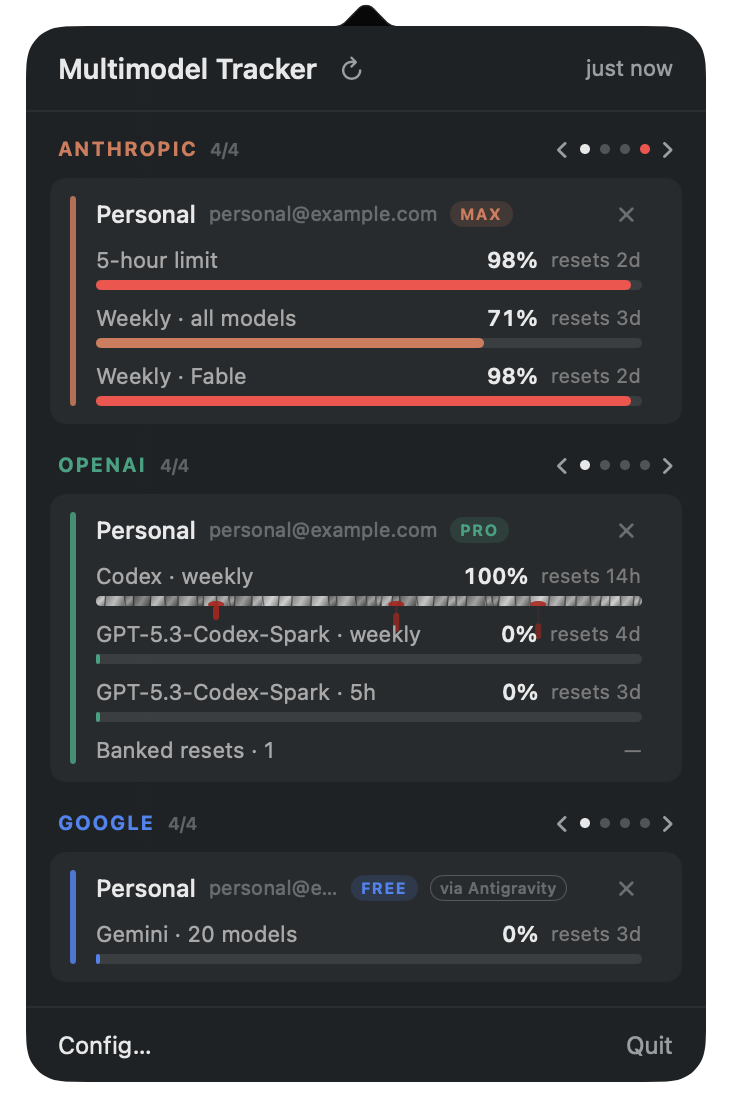
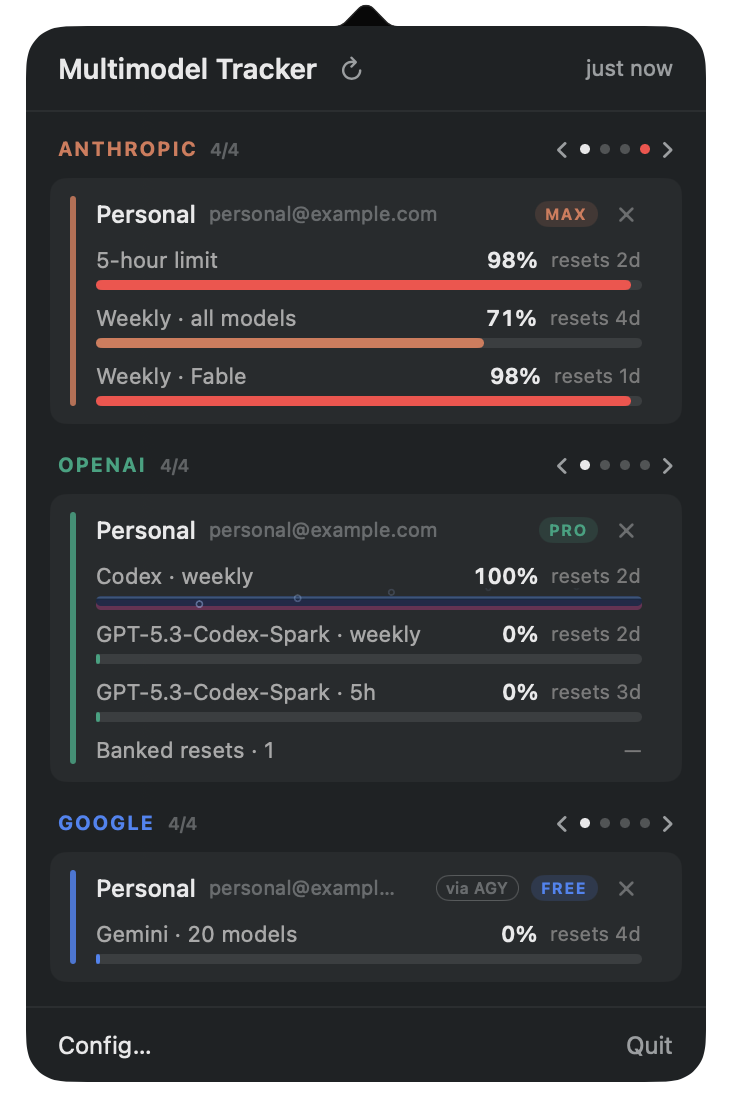
A half-signed-in Google row can no longer borrow another account's data
Adding a Google account showed the new row wearing the machine login's
numbers and tier until its own token landed — a browser row that had not
finished signing in fell back to the Antigravity credentials, so one
account's usage appeared under another's name. Rows that read the machine
login are now marked explicitly (mmt.googleMachineRows, a preference
rather than a field on the account, so the persisted shape never
changes), only a marked row may use those credentials, and any other row
without its own token reports "Not signed in" — which is the truth.
Existing rows are migrated once on launch: a Google row with no token of
its own could only ever have been reading the machine login.

Two presentation fixes that came with it:

- The chips sat immediately after the name and email, so they started at
  a different x on every row. They now sit after the spacer and line up
  down the column, tier last against the same right edge.
- The route chip says "via AGY" and, since browser sign-in is now the
  ordinary way in for Google, only the imported row says anything at all.
  That row is the unusual one: its credentials come from the Antigravity
  login already on this Mac (the keychain item the IDE and the agy CLI
  share), recovered without signing in here.

Confirms the tier reading against a second account: a paid account's
paidTier is "Google AI Pro", a free one's is "Antigravity Starter Quota"
with id free-tier, so the two are distinguishable and the chips now read
[…]

diff --git a/Sources/MultimodelTracker/Models/Store.swift b/Sources/MultimodelTracker/Models/Store.swift
@@ -38,6 +38,7 @@ final class Store: ObservableObject {
         // gauge and the popover offers each vendor's first action. The old
         // seed ("personal@…" at 66%) predated the adapters and greeted every
         // new user with plausible numbers for accounts that didn't exist.
+        migrateGoogleMachineRows()
         maxedStyle = Self.style(forViewing: UserDefaults.standard.integer(forKey: maxedViewsKey))
         burnCycleStyle = BurnStyle(rawValue:
             ((max(UserDefaults.standard.integer(forKey: "mmt.burnViews"), 1) - 1) / 3)
@@ -195,9 +196,9 @@ final class Store: ObservableObject {
             a(.openai, "Agency", "agency@example.com", "Pro", codex(63, 0, 0, 2)),
             a(.openai, "Prototyping", "proto@example.com", "Pro", codex(88, 35, 52, 0)),
             a(.google, "Personal", "personal@example.com", "Free", [("g", "Gemini · 20 models", 0)], .antigravity),
-            a(.google, "Work", "work@example.com", "Pro", [("g", "Gemini · 20 models", 12)], .antigravity),
-            a(.google, "Studio", "studio@example.com", "Ultra", [("g", "Gemini · 20 models", 47)], .antigravity),
-            a(.google, "Team", "team@example.com", "Pro", [("g", "Gemini · 20 models", 79)], .geminiCLI),
+            a(.google, "Work", "work@example.com", "Pro", [("g", "Gemini · 20 models", 12)]),
+            a(.google, "Studio", "studio@example.com", "Ultra", [("g", "Gemini · 20 models", 47)]),
+            a(.google, "Team", "team@example.com", "Pro", [("g", "Gemini · 20 models", 79)]),
         ]
     }
 
@@ -327,6 +328,7 @@ final class Store: ObservableObject {
     }
 
     func remove(_ id: UUID) {
+        unmarkMachineGoogleRow(id)
         Keychain.deleteAll(for: id)
         // Leave nothing that --recover would faithfully resurrect: the burn
         // history and the per-account cookie jar both outlive the row.
@@ -436,6 +438,42 @@ final class Store: ObservableObject {
     /// on this Mac. The adapter reads those sources directly at fetch time,
     /// so the account is a named slot rather than a credential holder — which
     /// also means one is enough.
+    /// Rows that read the ONE Antigravity/gemini-cli login on this Mac.
+    /// Kept as its own preference rather than on the account, so the
+    /// persisted account shape never changes (that is what once wiped the
+    /// list). Without this marker, a Google row mid-sign-in would fall back
+    /// to the machine credentials and show ANOTHER account's numbers under
+    /// its name.
+    private static let machineRowsKey = "mmt.googleMachineRows"
+    static func isMachineGoogleRow(_ id: UUID) -> Bool {
+        (UserDefaults.standard.array(forKey: machineRowsKey) as? [String] ?? []).contains(id.uuidString)
+    }
+    private func markMachineGoogleRow(_ id: UUID) {
+        var v = UserDefaults.standard.array(forKey: Self.machineRowsKey) as? [String] ?? []
+        if !v.contains(id.uuidString) { v.append(id.uuidString) }
+        UserDefaults.standard.set(v, forKey: Self.machineRowsKey)
+    }
+    private func unmarkMachineGoogleRow(_ id: UUID) {
+        let v = (UserDefaults.standard.array(forKey: Self.machineRowsKey) as? [String] ?? [])
+            .filter { $0 != id.uuidString }
+        UserDefaults.standard.set(v, forKey: Self.machineRowsKey)
+    }
+
+    /// Google rows created before the marker existed read the machine
+    /// login by definition — they had no other way to. Run once: after
+    /// this, every row is marked at creation.
+    private func migrateGoogleMachineRows() {
+        let done = "mmt.googleMachineRowsMigrated"
+        guard !UserDefaults.standard.bool(forKey: done) else { return }
+        for a in accounts where a.provider == .google {
+            // A missing keychain item answers instantly and never prompts.
+            if Keychain.read(service: Keychain.googleService, account: a.id.uuidString) == nil {
+                markMachineGoogleRow(a.id)
+            }
+        }
+        UserDefaults.standard.set(true, forKey: done)
+    }
+
     @discardableResult
     func importGoogleCLI() -> Account? {
         // Only one row can ride the machine credentials — that login is a
@@ -447,6 +485,7 @@ final class Store: ObservableObject {
         guard viaAntigravity || GoogleCredentialSource.geminiCLITokenBlob() != nil else { return nil }
         var a = Account(provider: .google, label: viaAntigravity ? "Antigravity" : "gemini-cli")
         a.nickname = viaAntigravity ? "Antigravity" : "gemini-cli"
+        markMachineGoogleRow(a.id)
         accounts.append(a); save()
         Task { await refresh(a) }
         return a

diff --git a/Sources/MultimodelTracker/UI/PopoverView.swift b/Sources/MultimodelTracker/UI/PopoverView.swift
@@ -530,6 +530,23 @@ struct AccountCard: View {
                     if let sub = account.subtitle, !rolled, !compact {
                         Text(sub).font(.system(size: 10)).foregroundStyle(.tertiary).lineLimit(1)
                     }
+                    Spacer()
+                    // The chips sit AFTER the spacer, so they line up down
+                    // the column instead of starting wherever each account's
+                    // name and email happen to end.
+                    if let via = account.authSource.chipLabel, !rolled, !compact {
+                        // How the credentials were found — a different kind
+                        // of fact, so deliberately a different kind of chip:
+                        // outlined and grey, never mistakable for a tier.
+                        // Only an unusual route says anything at all.
+                        Text(via)
+                            .font(.system(size: 8, weight: .medium))
+                            .padding(.horizontal, 5).padding(.vertical, 1.5)
+                            .overlay(Capsule().strokeBorder(Color.primary.opacity(0.25), lineWidth: 0.5))
+                            .foregroundStyle(.tertiary)
+                            .lineLimit(1)
+                            .fixedSize()
+                    }
                     if let plan = account.plan, !rolled {
                         // The subscription TIER — filled, in the vendor's
                         // accent. Nothing else belongs in this slot.
@@ -539,25 +556,7 @@ struct AccountCard: View {
                             .background(accent.opacity(0.16), in: Capsule())
                             .foregroundStyle(accent)
                             .fixedSize()
-                            .layoutPriority(1)
                     }
-                    if let via = account.authSource.chipLabel, !rolled, !compact {
-                        // How the credentials were found — a different kind
-                        // of fact, so deliberately a different kind of chip:
-                        // outlined and grey, never mistakable for a tier.
-                        Text(via)
-                            .font(.system(size: 8, weight: .medium))
-                            .padding(.horizontal, 5).padding(.vertical, 1.5)
-                            .overlay(Capsule().strokeBorder(Color.primary.opacity(0.25), lineWidth: 0.5))
-                            .foregroundStyle(.tertiary)
-                            .lineLimit(1)
-                            .fixedSize()
-                            // The chips are short and load-bearing; the email
-                            // is the long, secondary thing. Let it give way
-                            // first rather than clipping "via Antigravity".
-                            .layoutPriority(1)
-                    }
-                    Spacer()
                     // A usage tracker that quietly shows old numbers is worse
                     // than one that shows nothing: a stalled refresh once left
                     // 33% on screen while the account was actually maxed out.

diff --git a/Sources/MultimodelTracker/Providers/GoogleAdapter.swift b/Sources/MultimodelTracker/Providers/GoogleAdapter.swift
@@ -253,7 +253,15 @@ struct GoogleAdapterImpl: UsageAdapter {
         var idToken: String?
         if let mine = await Keychain.googleRefreshTokenAsync(for: account.id) {
             refreshToken = mine
+            if ProcessInfo.processInfo.environment["MMT_DEBUG"] != nil {
+                FileHandle.standardError.write(
+                    "google \(account.displayName): OWN token\n".data(using: .utf8)!)
+            }
         } else {
+            // Only the imported row may read the machine login. Any other row
+            // without its own token is a sign-in that never finished, and
+            // must say so rather than borrow someone else's numbers.
+            guard await Store.isMachineGoogleRow(account.id) else { throw AdapterError.notSignedIn }
             let antigravity = await GoogleCredentialSource.antigravityTokenBlob()
             guard let blob = antigravity ?? GoogleCredentialSource.geminiCLITokenBlob() else {
                 throw AdapterError.notSignedIn
@@ -331,6 +339,17 @@ struct GoogleAdapterImpl: UsageAdapter {
             }
         }
         if access == nil, let t = blob.accessToken { access = t }
+        guard let access else { throw AdapterError.notSignedIn }
+        return try await call("loadCodeAssist", body: ["metadata": Self.metadata],
+                              token: access, agent: "antigravity")
+    }
+
+    /// loadCodeAssist for a SPECIFIC account's refresh token.
+    func rawLoadCodeAssistUsing(refreshToken: String) async throws -> [String: Any] {
+        var access: String?
+        for client in GeminiOAuthClient.candidates() {
+            if let t = try? await exchange(refresh: refreshToken, client: client) { access = t; break }
+        }
         guard let access else { throw AdapterError.notSignedIn }
         return try await call("loadCodeAssist", body: ["metadata": Self.metadata],
                               token: access, agent: "antigravity")

diff --git a/Sources/MultimodelTracker/UI/App.swift b/Sources/MultimodelTracker/UI/App.swift
@@ -282,6 +282,24 @@ final class AppDelegate: NSObject, NSApplicationDelegate, NSPopoverDelegate, NSW
         if CommandLine.arguments.contains("--google-raw") {
             Task { @MainActor in
                 do {
+                    // Every Google row, with ITS OWN token — the only way to
+                    // compare a paying account against a free one.
+                    for acct in store.accounts(for: .google) {
+                        if let t = await Keychain.googleRefreshTokenAsync(for: acct.id) {
+                            do {
+                                let r = try await GoogleAdapterImpl().rawLoadCodeAssistUsing(refreshToken: t)
+                                let cur = (r["currentTier"] as? [String: Any])?["id"] as? String
+                                let paidN = (r["paidTier"] as? [String: Any])?["name"] as? String
+                                let paidI = (r["paidTier"] as? [String: Any])?["id"] as? String
+                                FileHandle.standardError.write(
+                                    "TIER \(acct.displayName): currentTier=\(cur ?? "-") paidTier=\(paidN ?? "-")/\(paidI ?? "-")\n".data(using: .utf8)!)
+                            } catch {
+                                FileHandle.standardError.write("TIER \(acct.displayName): failed \(error)\n".data(using: .utf8)!)
+                            }
+                        } else {
+                            FileHandle.standardError.write("TIER \(acct.displayName): machine creds row\n".data(using: .utf8)!)
+                        }
+                    }
                     let root = try await GoogleAdapterImpl().rawLoadCodeAssist()
                     let d = try JSONSerialization.data(withJSONObject: root, options: [.prettyPrinted, .sortedKeys])
                     FileHandle.standardError.write(d); FileHandle.standardError.write("\n".data(using: .utf8)!)

diff --git a/Sources/MultimodelTracker/Models/Domain.swift b/Sources/MultimodelTracker/Models/Domain.swift
@@ -100,7 +100,7 @@ enum AuthSource: String {
         switch self {
         case .codexCLI:     return "via Codex CLI"
         case .claudeCode:   return "via Claude Code"
-        case .antigravity:  return "via Antigravity"
+        case .antigravity:  return "via AGY"
         case .geminiCLI:    return "via gemini-cli"
         case .browser, .legacyCookies, .unknown: return nil
         }
